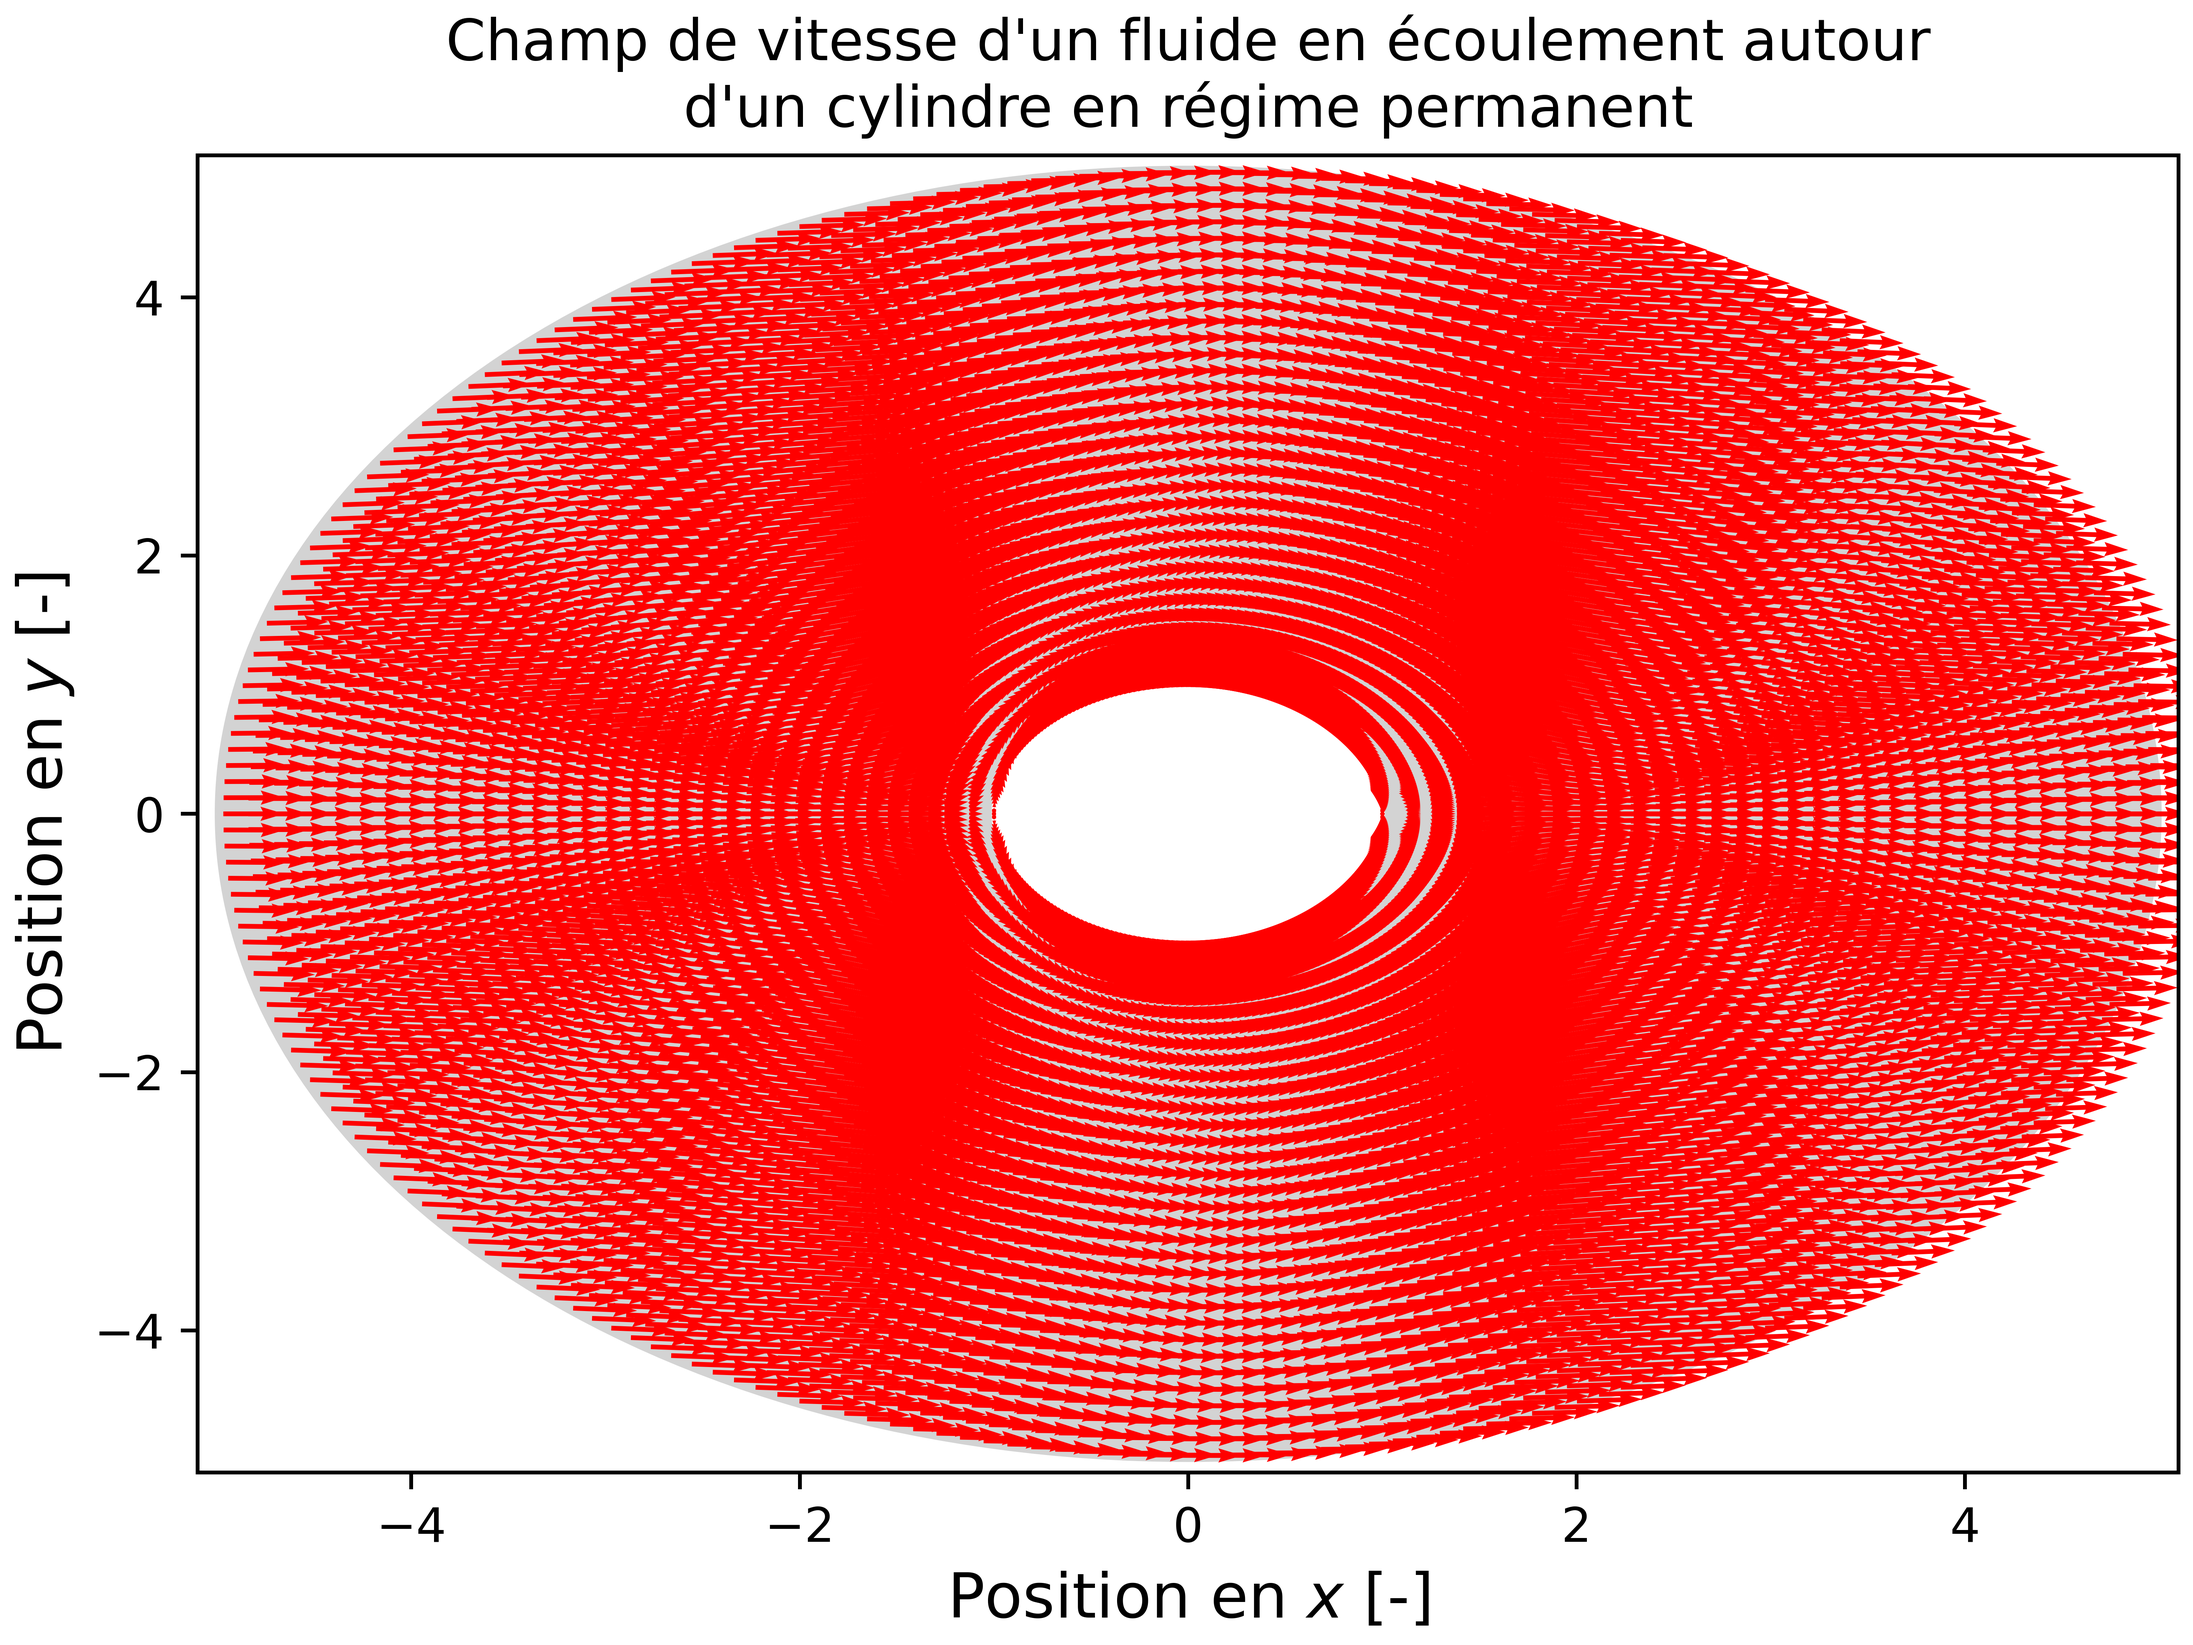
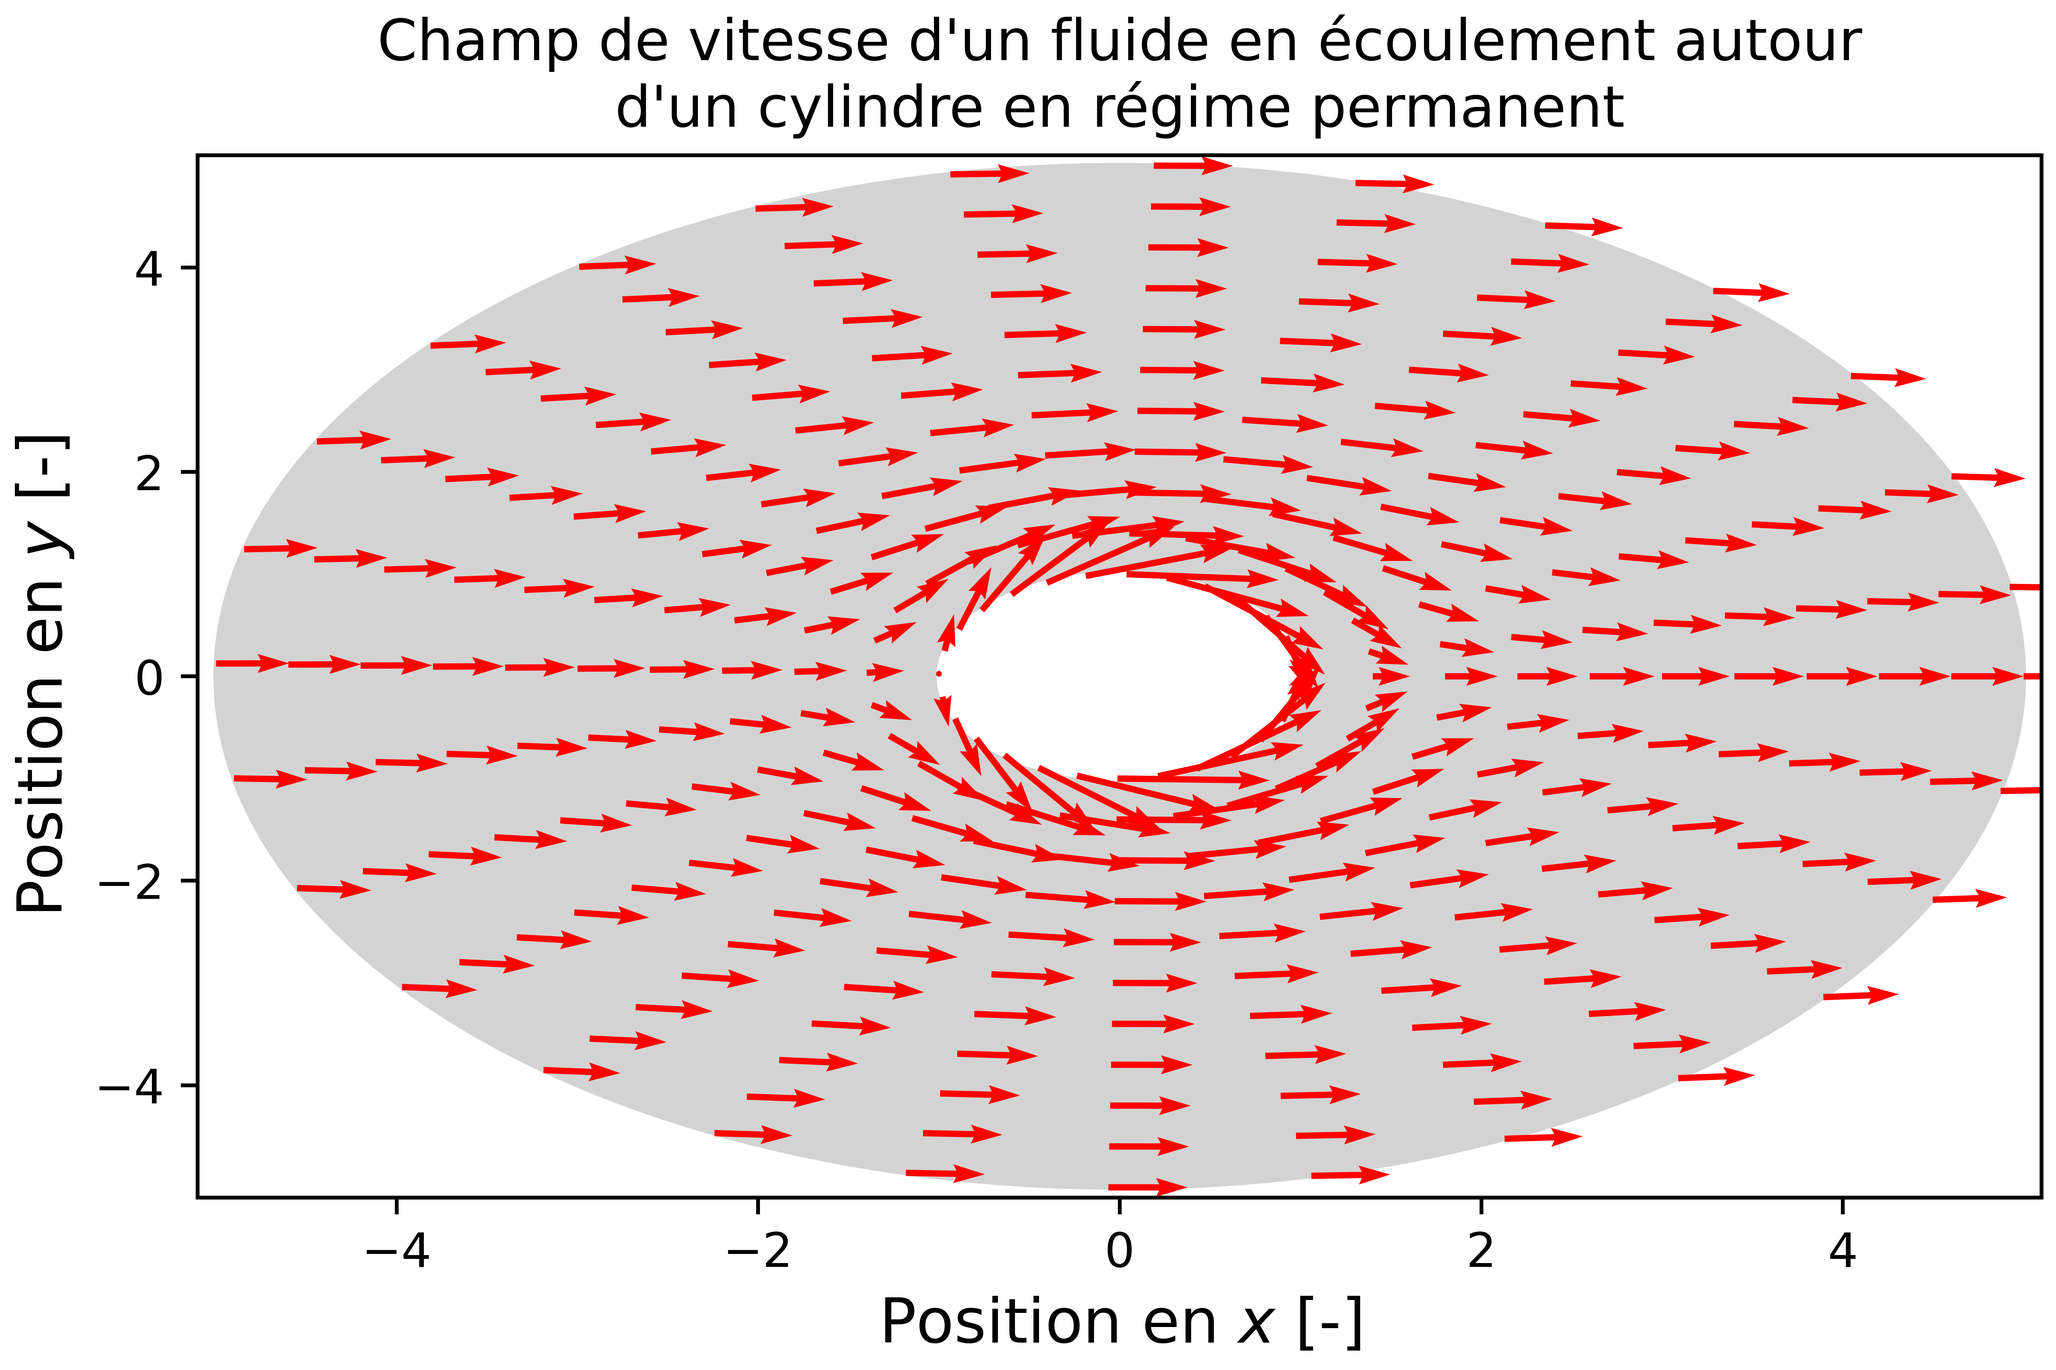
Graph CP

diff --git a/Code/Analyse/test_projet.py b/Code/Analyse/test_projet.py
@@ -2,6 +2,7 @@
 # import time
 
 import matplotlib.pyplot as plt
+import matplotlib.ticker as tck
 import numpy as np
 import pandas as pd
 import sys
@@ -59,6 +60,7 @@ vtheta_exact = -np.sin(theta)*prm.U_inf*(1+prm.R**2/r**2)
 erreur_vr = np.mean(abs(vr_exact - vr))
 erreur_vtheta = np.mean(abs(vtheta_exact - vtheta))
 
+
 cd, cl = coeff_aerodynamique(vr, vtheta, nr, ntheta, prm)
 
 V = np.sqrt(np.square(vr) + np.square(vtheta))
@@ -85,12 +87,12 @@ ax4.add_patch(circle1)
 # ax4.grid(True, which="both")
 bonds_r = 16
 bonds_theta = 2
-ax4.quiver(x[::bonds_theta,::bonds_r ], y[::bonds_theta , ::bonds_r], vx[::bonds_theta , ::bonds_r], vy[::bonds_theta , ::bonds_r], units = "dots", color = "red", scale = .006, label = "Vecteurs vitesse") 
+ax4.quiver(x[::bonds_theta,::bonds_r ], y[::bonds_theta , ::bonds_r], vx[::bonds_theta , ::bonds_r], vy[::bonds_theta , ::bonds_r], units = "dots", color = "red", scale = .005, label = "Vecteurs vitesse") 
 ax4.set_title("Champ de vitesse d'un fluide en écoulement autour\nd'un cylindre en régime permanent", size=12)
 ax4.set_xlabel(r'Position en $x$ [-]', size=13)
 ax4.set_ylabel(r'Position en $y$ [-]', size=13)
 ax4.axis([-5.1, 5.1, -5.1, 5.1])
-fig4.savefig("champ_de_vitesse.png", dpi=900)
+#fig4.savefig("champ_de_vitesse.png", dpi=900)
 #%%
 psi_num_mat = np.abs(k2ij_matrix(ntheta, psi_num))
 fig22, ax22 = plt.subplots(constrained_layout=False)
@@ -104,6 +106,22 @@ ax22.set_ylabel(r'Position en $y$ [-]', size=13)
 # ax22.grid(True, which="both")
 
 # fig22.savefig("ligne_courant.png", dpi=1200)
+
+
+
+#Graphique de Cp
+fig33, ax33 = plt.subplots(constrained_layout=False)
+cp = coeff_pression(vr[:,0], vtheta[:,0], prm)
+t = np.linspace(0,2,len(cp))
+plt.plot(t,cp,'r')
+plt.xlim(0,2)
+plt.grid(which='both')
+plt.title(r"Coefficient de pression $C_p$ en fonction de l'angle $\theta$ pour r = R")
+plt.xlabel(r"$\theta$ [rad]")
+plt.ylabel(r"$C_p$ [-]")
+ax33.xaxis.set_major_formatter(tck.FormatStrFormatter('%g $\pi$'))
+ax33.xaxis.set_major_locator(tck.MultipleLocator(base=0.5))
+# plt.savefig('C_p.png',dpi=1000)
 
 plt.show()
 

diff --git a/Code/Analyse/Correction.py b/Code/Analyse/Correction.py
@@ -120,7 +120,7 @@ class Test:
                 psi_exact[k] = prm.U_inf * r_mat[-1-j,i] * np.sin(theta_mat[-1-j,i]) * (1 - prm.R**2 / r_mat[-1-j,i]**2)   
         v_r, v_theta = vitesse_polaire(psi_exact,nr,ntheta, prm)
          
-        cp_exact = -1 + 2 * (np.cos(theta)**2 - np.sin(theta)**2)
+        cp_exact = 1 -4*np.sin(theta)**2
         
         cp = coeff_pression(v_r[:,0], v_theta[:,0], prm)
         
